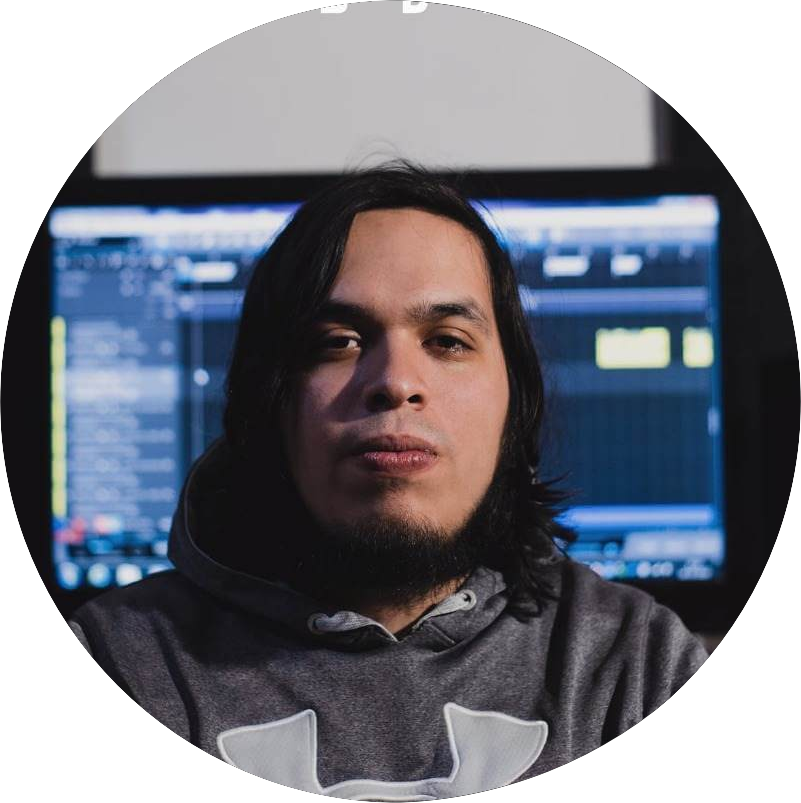
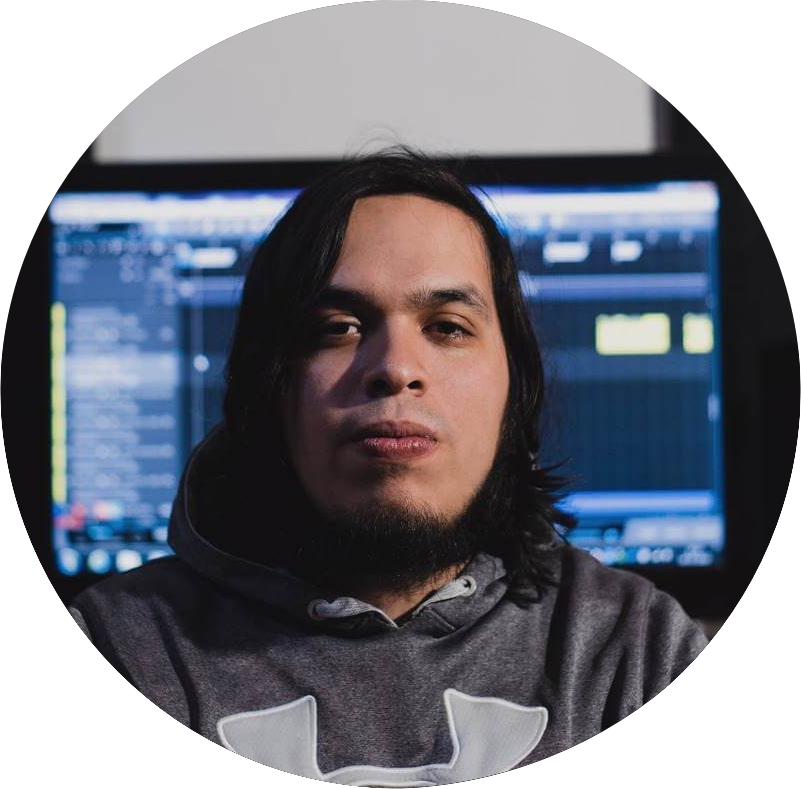
Fixing contact image

diff --git a/src/components/Contacto.jsx b/src/components/Contacto.jsx
@@ -41,7 +41,7 @@ const Contacto = () => {
           <img
   src={fotoFernando}
   alt="Fernando Guerra"
-  className="ml-3 rounded-full overflow-hidden h-[30vh] w-[30vh] md:h-[37vh] md:w-[37vh] lg:h-[140px] lg:w-[140px] mb-4 lg:mb-0 border border-white shadow-[0_10px_30px_rgba(0,0,0,0.3)]"
+  className="ml-3 rounded-full overflow-hidden h-[30vh] w-[30vh] md:h-[37vh] md:w-[37vh] lg:h-[140px] lg:w-[140px] mb-4 lg:mb-0 border-2 border-white shadow-2xl"
 />
 
 
